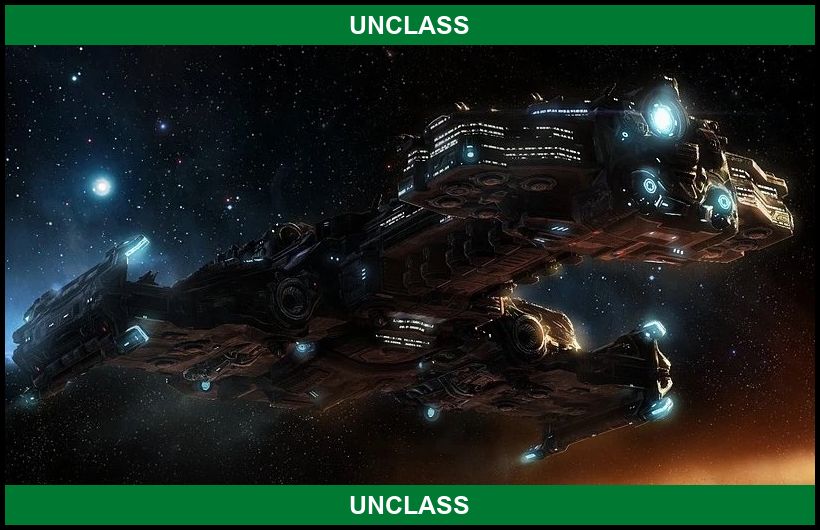
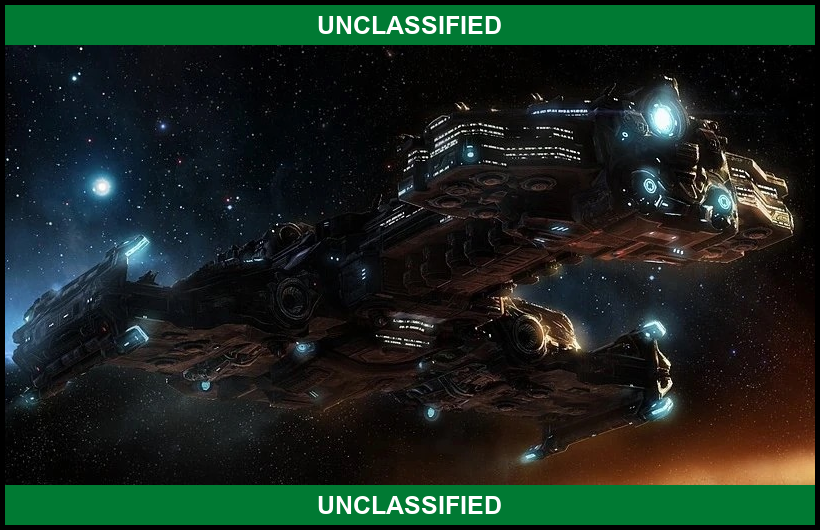
fixed classification arg (#34)

Changed region(s): [[0.3659, 0.9358, 0.6098, 0.9962], [0.3659, 0.0302, 0.6098, 0.0906]]

diff --git a/classitag/classitag.py b/classitag/classitag.py
@@ -196,7 +196,7 @@ def create_command_line_interface(directory_path: pathlib.Path, classification: 
 )
 @click.argument(
     "classification",
-    type=click.Choice(["CUI", "SECRET", "UNCLASS"], case_sensitive=False),
+    type=click.Choice(["CUI", "SECRET", "UNCLASSIFIED"], case_sensitive=False),
     required=False,
 )
 def main(directory_path: pathlib.Path, classification: str) -> None:
@@ -204,7 +204,7 @@ def main(directory_path: pathlib.Path, classification: str) -> None:
     This project provides a tool for adding classification labels to images within a specified directory. These labels are applied to both the top and bottom of each image, indicating the classification of the content.
 
     directory_path = The path to the directory containing the images. Optional when using GUI mode.
-    classification = The classification type to be applied as an overlay ("CUI", "SECRET" or "UNCLASS"). Optional when using GUI mode.
+    classification = The classification type to be applied as an overlay ("CUI", "SECRET" or "UNCLASSIFIED"). Optional when using GUI mode.
     """
     if directory_path is None:
         create_gui()
